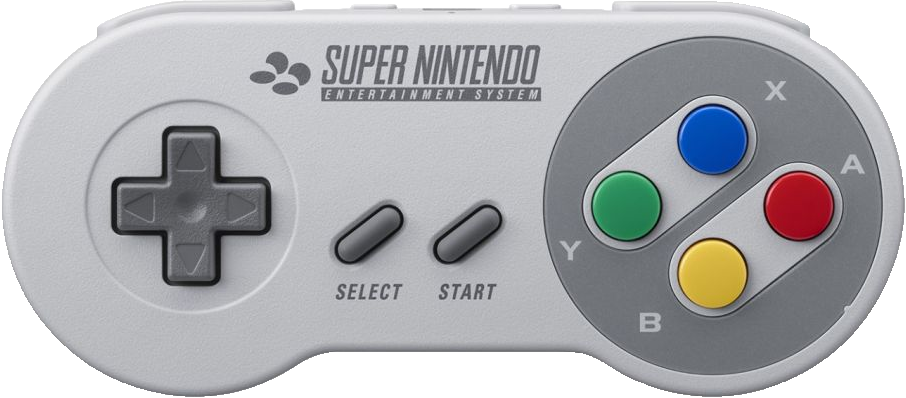
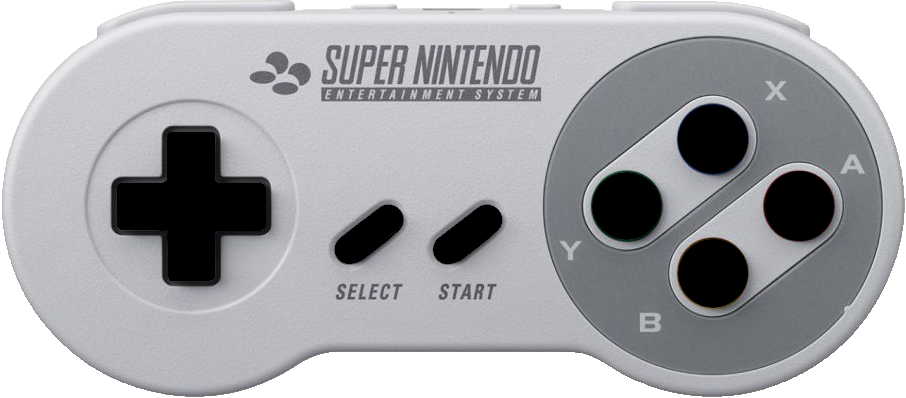
feat(button): update to improve display of buttons on SNES
Adding of select and start buttons at the same time

diff --git a/src/frontend/menu/settings/gamepad/preview/DpadSNES.qml b/src/frontend/menu/settings/gamepad/preview/DpadSNES.qml
@@ -22,45 +22,34 @@ Item {
     property var gamepad
 
     Image {
-        id:pressedImage
+        id:initialImage
         z: 50
-        //anchors.fill: parent
-        width: parent.width //* 0.95
-        height: parent.height //* 0.95
+        width: parent.width
+        height: parent.height
         anchors.verticalCenter: parent.verticalCenter
         anchors.horizontalCenter: parent.horizontalCenter
-
-        //fillMode: Image.PreserveAspectFit
         source: "qrc:/frontend/assets/gamepad/dpad_snes.png"
-        /*sourceSize {
-            width: 128
-            height: 128
-        }*/
-        visible: false //test.pressed
+        visible: !dpleft.pressed
     }
-
-    BrightnessContrast {
-        z:100
-        visible: test.pressed
-        //enabled: pressed
-        anchors.fill: pressedImage
-        source: pressedImage
-        brightness: 0.5
-        contrast: 0.5
-        transform: Rotation { origin.x: pressedImage.width/2; origin.y: pressedImage.height/2; axis { x: 0; y: 1; z: 0 } angle: 20 }
-    }
-
-
-
 
     DpadHighlightSNES {
-        id:test
+        id: dpleft
         anchors.left: parent.left
         anchors.verticalCenter: parent.verticalCenter
 
         highlighted: padContainer.currentButton === "dpleft"
         pressed: gamepad && gamepad.buttonLeft
     }
+    BrightnessContrast {
+        z:100
+        visible: dpleft.pressed
+        anchors.fill: initialImage
+        source: initialImage
+        brightness: 0.5
+        contrast: 0.5
+        transform: Rotation { origin.x: initialImage.width/2; origin.y: initialImage.height/2; axis { x: 0; y: 1; z: 0 } angle: 20 }
+    }
+
     DpadHighlightSNES {
         anchors.right: parent.right
         anchors.verticalCenter: parent.verticalCenter

diff --git a/src/frontend/menu/settings/gamepad/preview/PadButtonSNES.qml b/src/frontend/menu/settings/gamepad/preview/PadButtonSNES.qml
@@ -25,55 +25,34 @@ Item {
     //property alias sourceWidth: pieceImage.sourceSize.width
     //property alias sourceHeight: pieceImage.sourceSize.height
 
-    /*Image {
+    Image {
         id: initialImage
         z: 50
         width: parent.width
         height: parent.height
-
-        //fillMode: Image.PreserveAspectFit
-
         anchors.fill: parent.fill
-
         source: "qrc:/frontend/assets/gamepad/" + shortName + "_snes.png"
-        visible: false
-    }*/
+        visible: !pressed
+    }
+
     Image {
         id: pressedImage
-        z: 50
-        width: parent.width * 0.95
-        height: parent.height * 0.95
-
-        //fillMode: Image.PreserveAspectFit
-
-        //anchors.fill: parent.fill
-
-        anchors.verticalCenter: parent.verticalCenter
-        anchors.horizontalCenter: parent.horizontalCenter
-
-
-
-        source: "qrc:/frontend/assets/gamepad/" + shortName + "_snes.png"
-        /*sourceSize {
-            width: 71
-            height: 71
-        }*/
-        visible: pressed
+        width: initialImage.width * 0.95
+        height: initialImage.height * 0.95
+        anchors.verticalCenter: initialImage.verticalCenter
+        anchors.horizontalCenter: initialImage.horizontalCenter
+        source: initialImage.source
+        visible: false
     }
 
     BrightnessContrast {
         z:100
         visible: pressed
-        //enabled: pressed
         anchors.fill: pressedImage
         source: pressedImage
         brightness: 0.5
         contrast: 0.5
     }
-
-
-
-
 
     Rectangle {
         id: highlight
